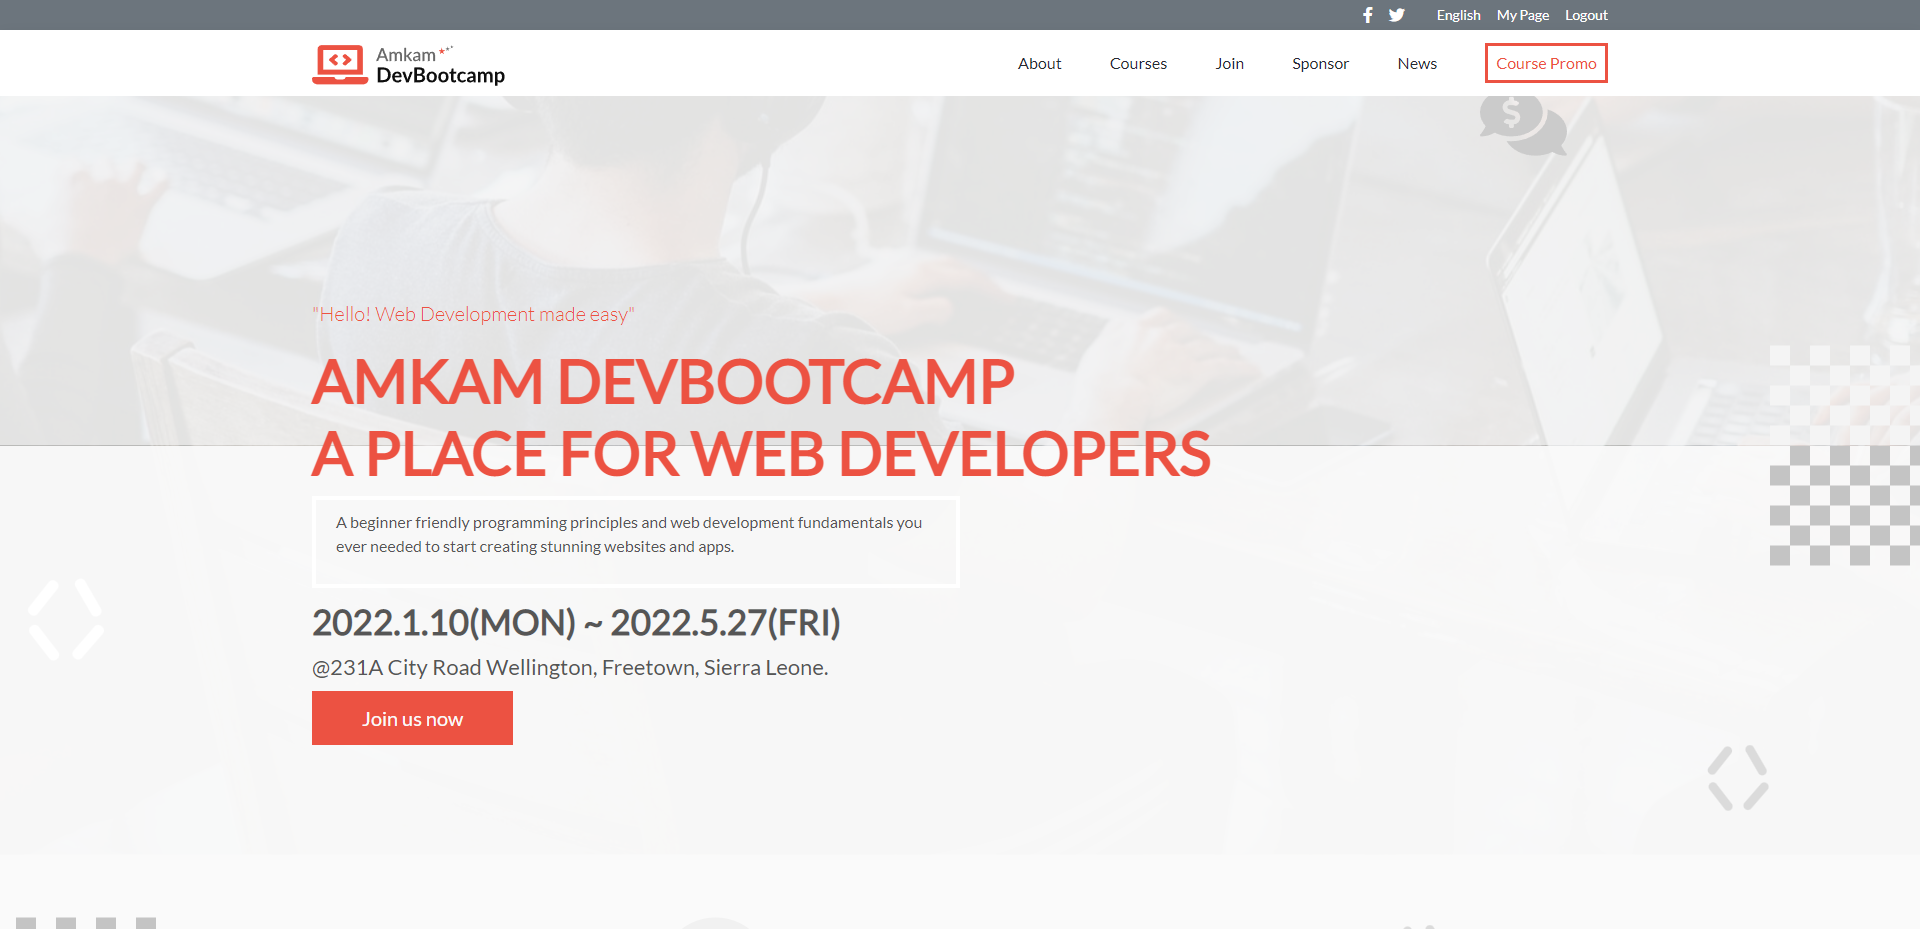
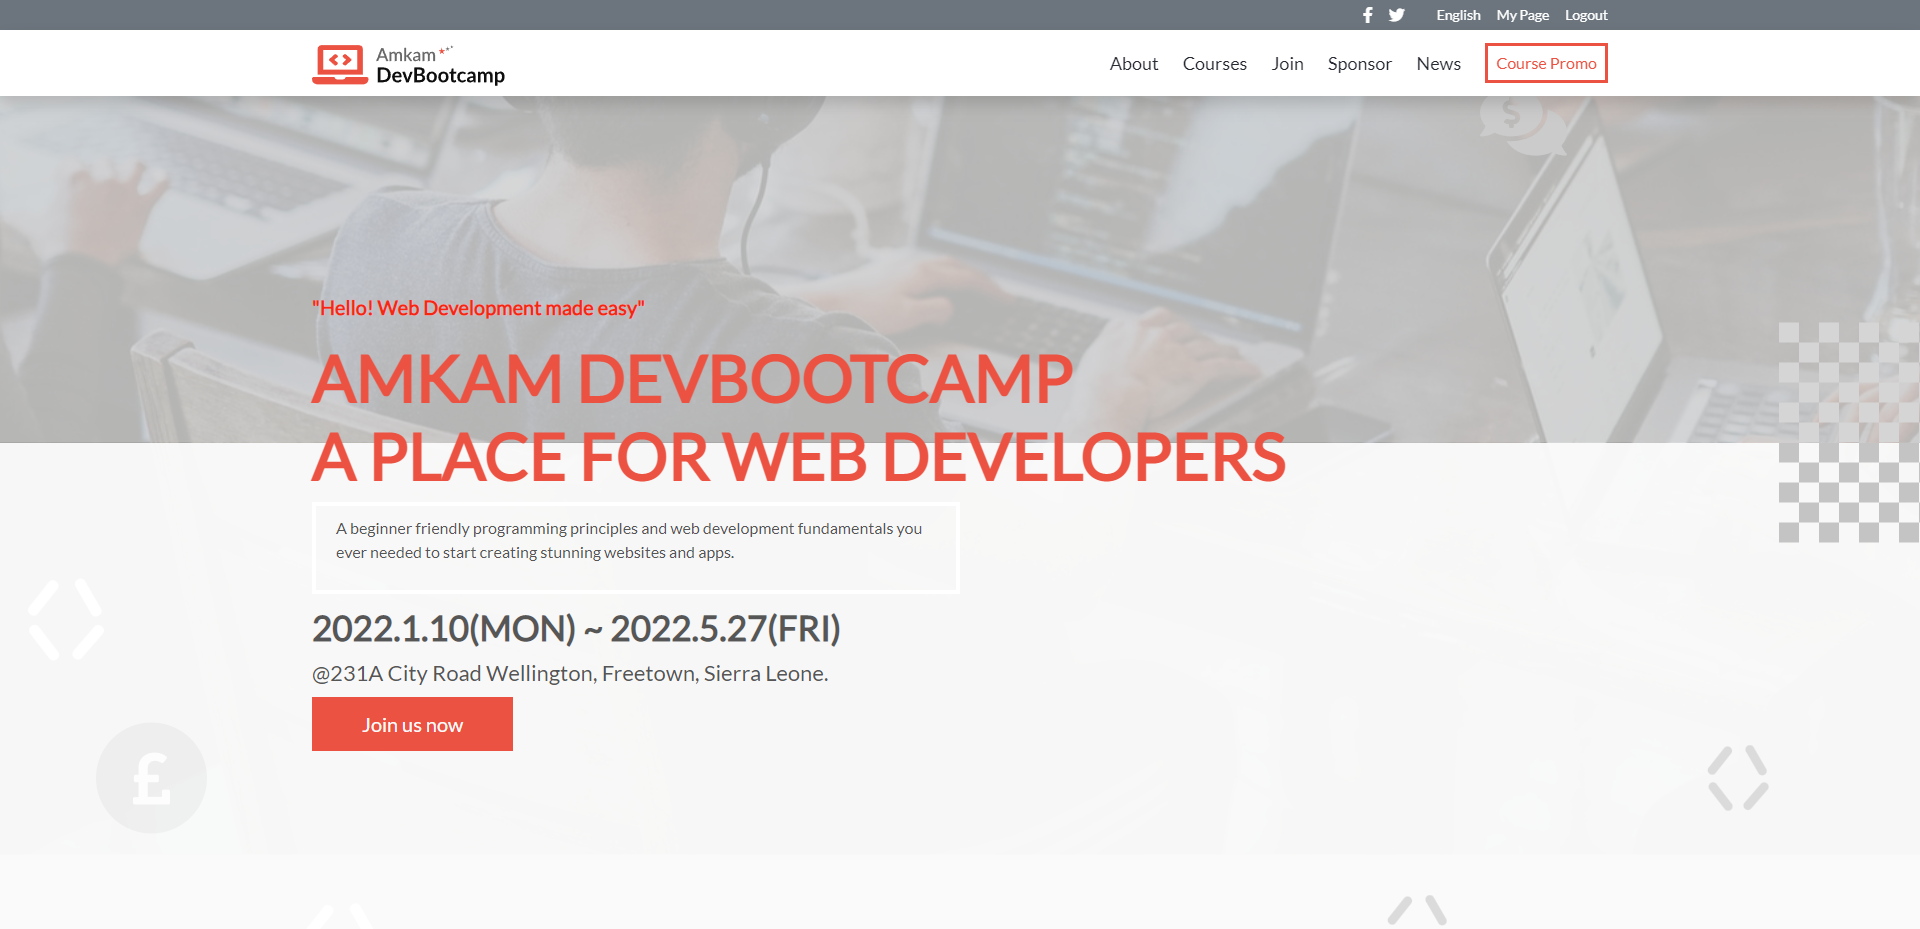
Changed screenshots in README.md

diff --git a/styles/main.css b/styles/main.css
@@ -122,7 +122,6 @@ nav {
 /* Hero Section Styles */
 .hero-section {
   width: 100%;
-  height: 100vh;
   height: calc(100vh - 90px);
   background-image: url('../images/Hero\ Background.svg');
   background-repeat: no-repeat;
@@ -130,15 +129,19 @@ nav {
   background-position: center;
 }
 
+.hero-intro{
+}
+
 .hero-intro p {
   font-size: 20px;
   font-weight: 100;
-  color: #ec5242;
+  color: #f52711;
+  font-weight: bold;
 }
 
 .hero-intro h1 {
-  font-size: 60px;
-  font-weight: 600;
+  font-size: 65px;
+  font-weight: bold;
   color: #ec5242;
 }
 
